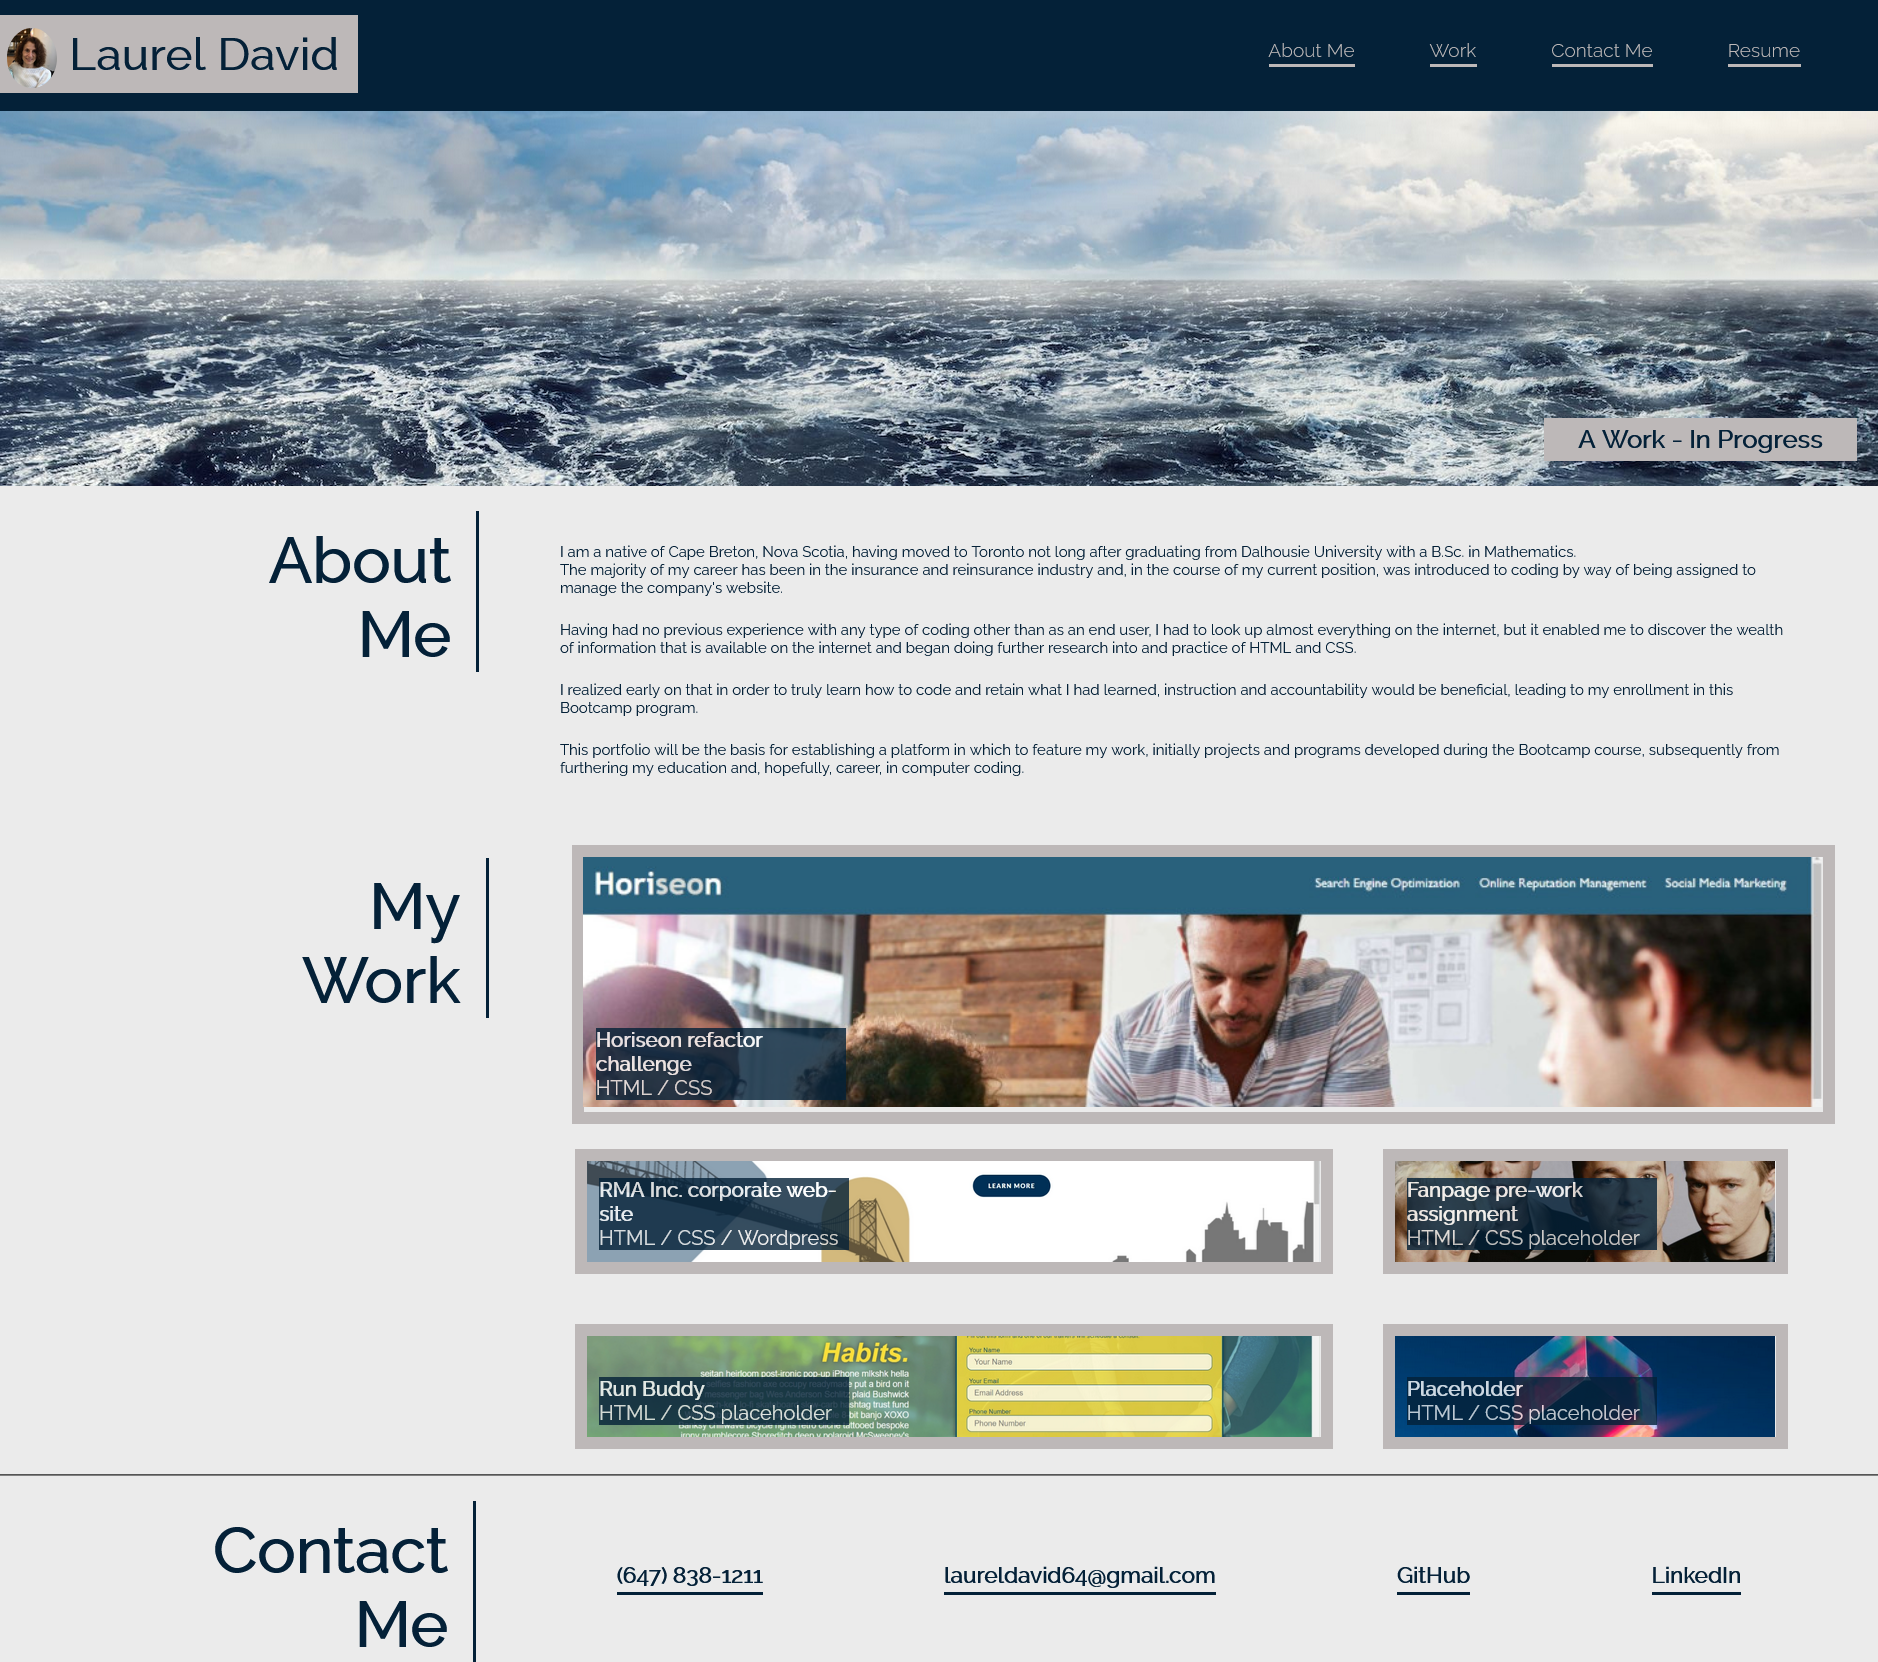
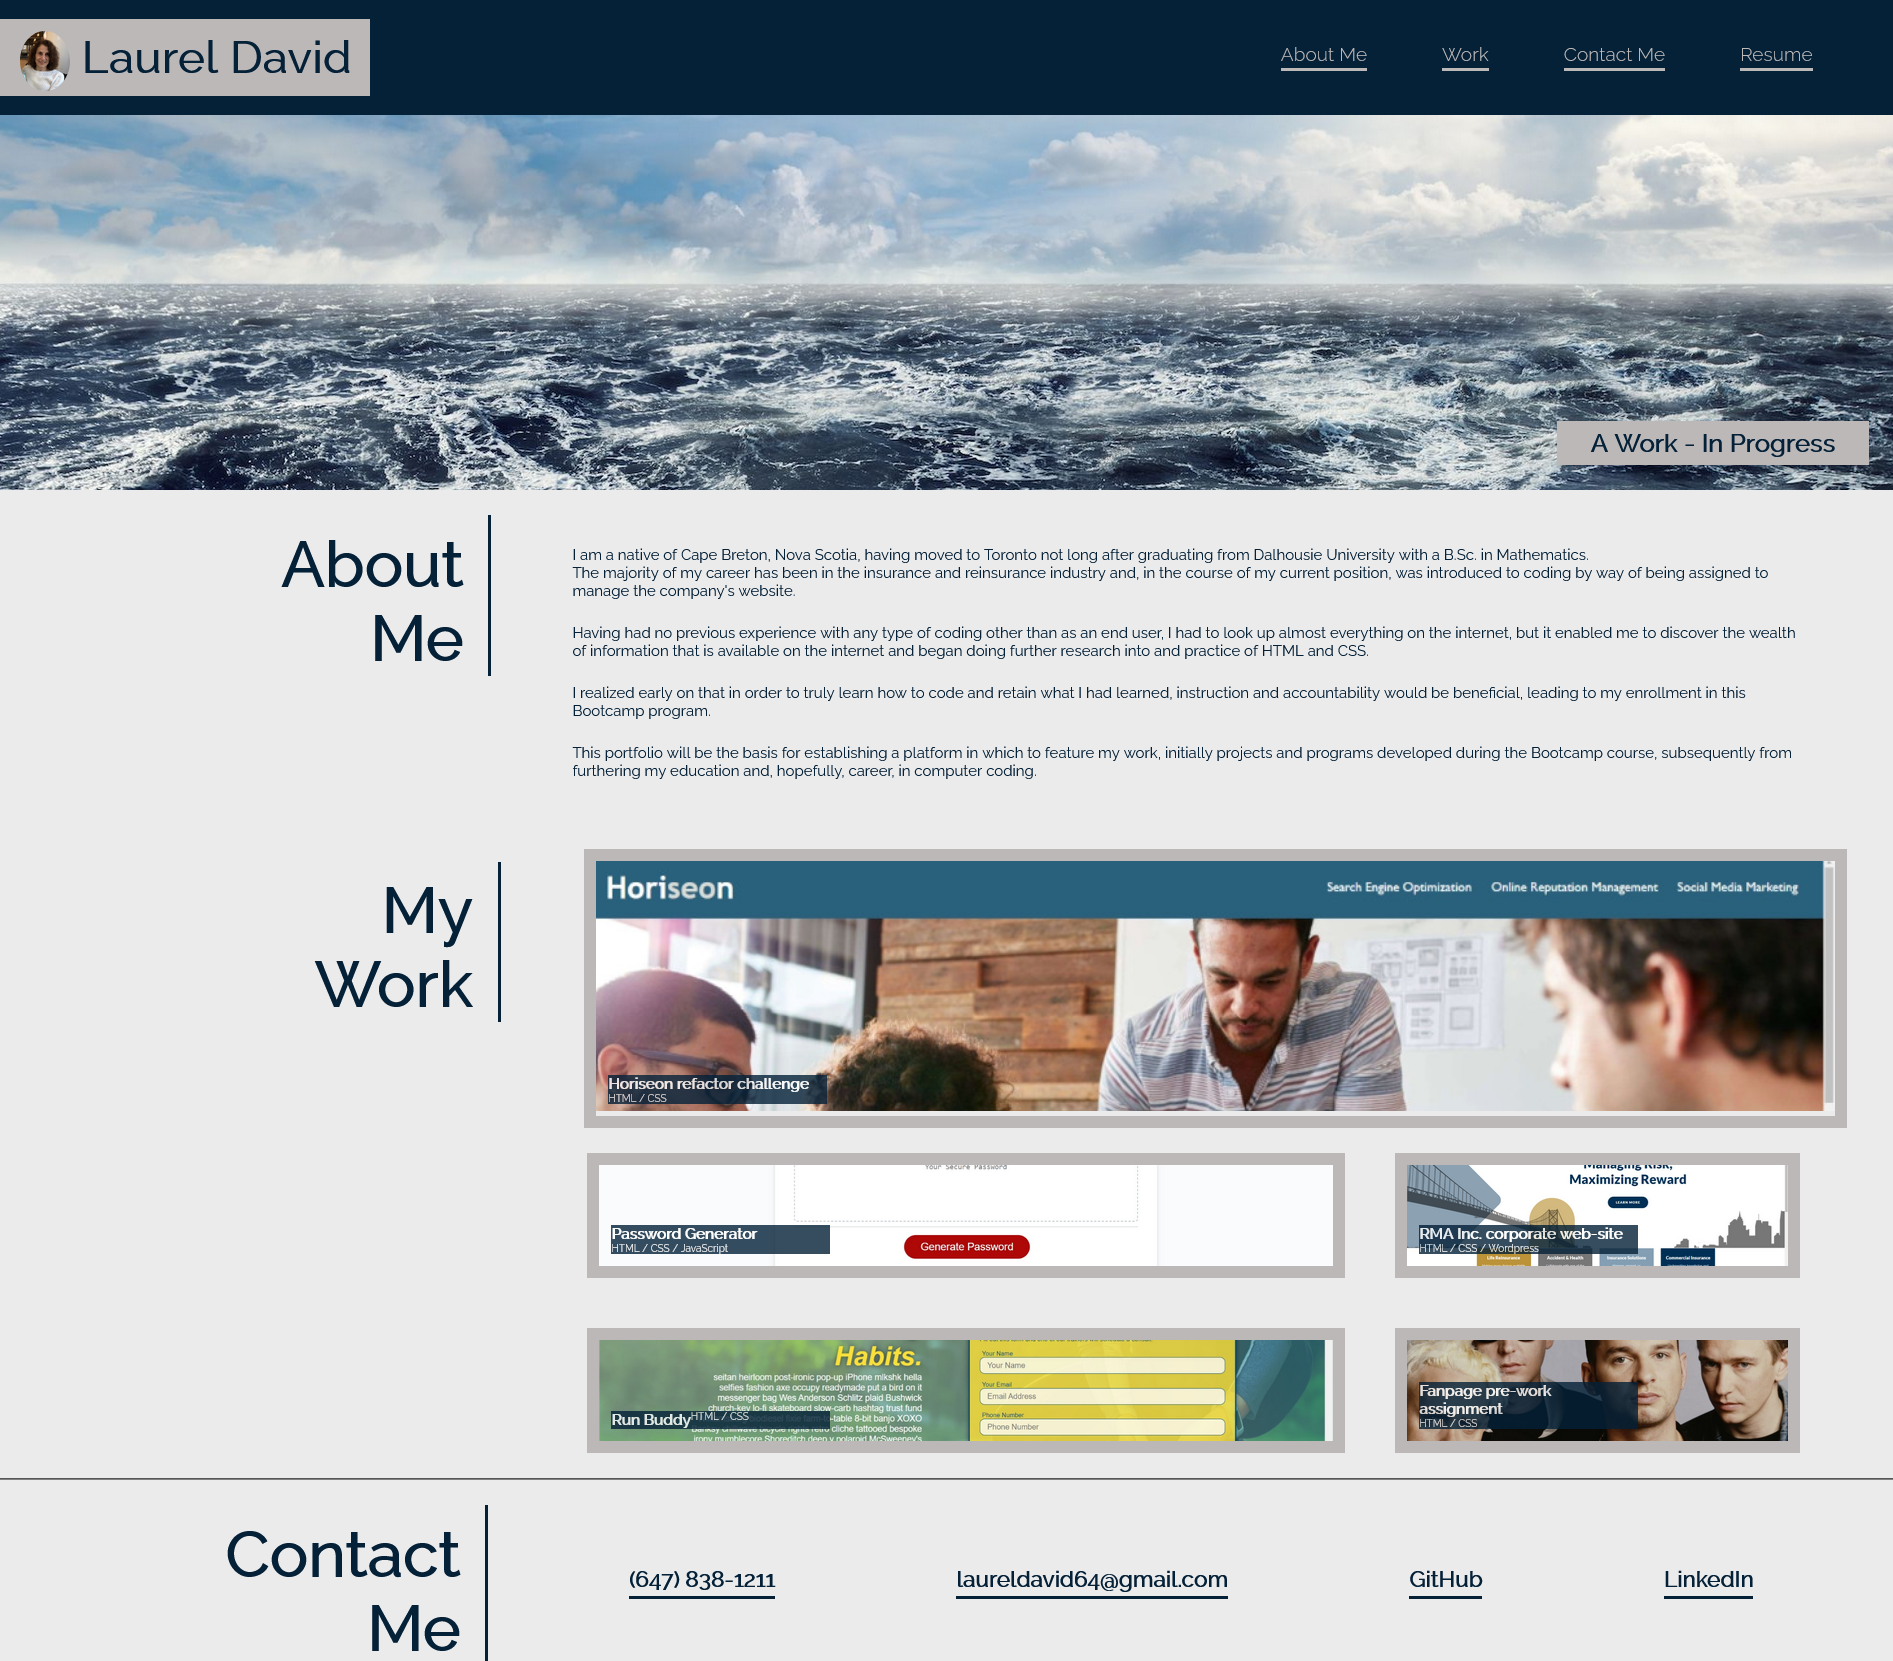
add canvas sample and current site image

diff --git a/README.md b/README.md
@@ -2,7 +2,7 @@
 
 The purpose of this project is establish a portfolio using the CSS formatting guidlines introduced in Module 2 to produce a responsive webpage that can be viewed on multiple platforms, devices and/or screen sizes without losing the integrity of site display.  This project will also form the basis of the portfolio which I, as a student in this Bootcamp course, will build upon through the various challenges and beyond as one of the necessary resources required to demonstrate my abilities to prospective employers and clients.
 
-[An image of the challenge sample posted as part of acceptance criteria]()
+[Portfolio page sameple](https://github.com/lnd4812/l-david-portfolio/../../../../assets/02-advanced-css-homework-demo.gif)
 
 ## Requirements
 
@@ -24,7 +24,7 @@ The main design of this page is fairly basic - a header, hero, main section and 
 
 Images were fitted into their respective div containers via background url designations, as I was having difficulty getting them to fit properly when following feedback obtained during Mar05/22 office hours (the TA was having difficulty hearing me and was not able to fully address my) and various sites on the internet.  This formatting, appears to enable the images and tags on which are indicated the project name and link for each to respond in the manner specified in the Acceptance Criteria.
 
-ADD IMAGE HERE
+![updated portfolio site](./portfolio%20screen%20shot.png)
 
 I recognize I have not met a few Acceptance Criteria, the main one being the responsive display, and had to change my draft resume to an image file in order to complete the link. I believe the other criteria requirements appear to be in order.  I do, however, recognize that the responsive display is the most crucial of the Acceptance Criteria for this project and I also recognize that further study, research and practice are obviously required in order for me to improve the design and formatting to a more acceptable standard.
 
